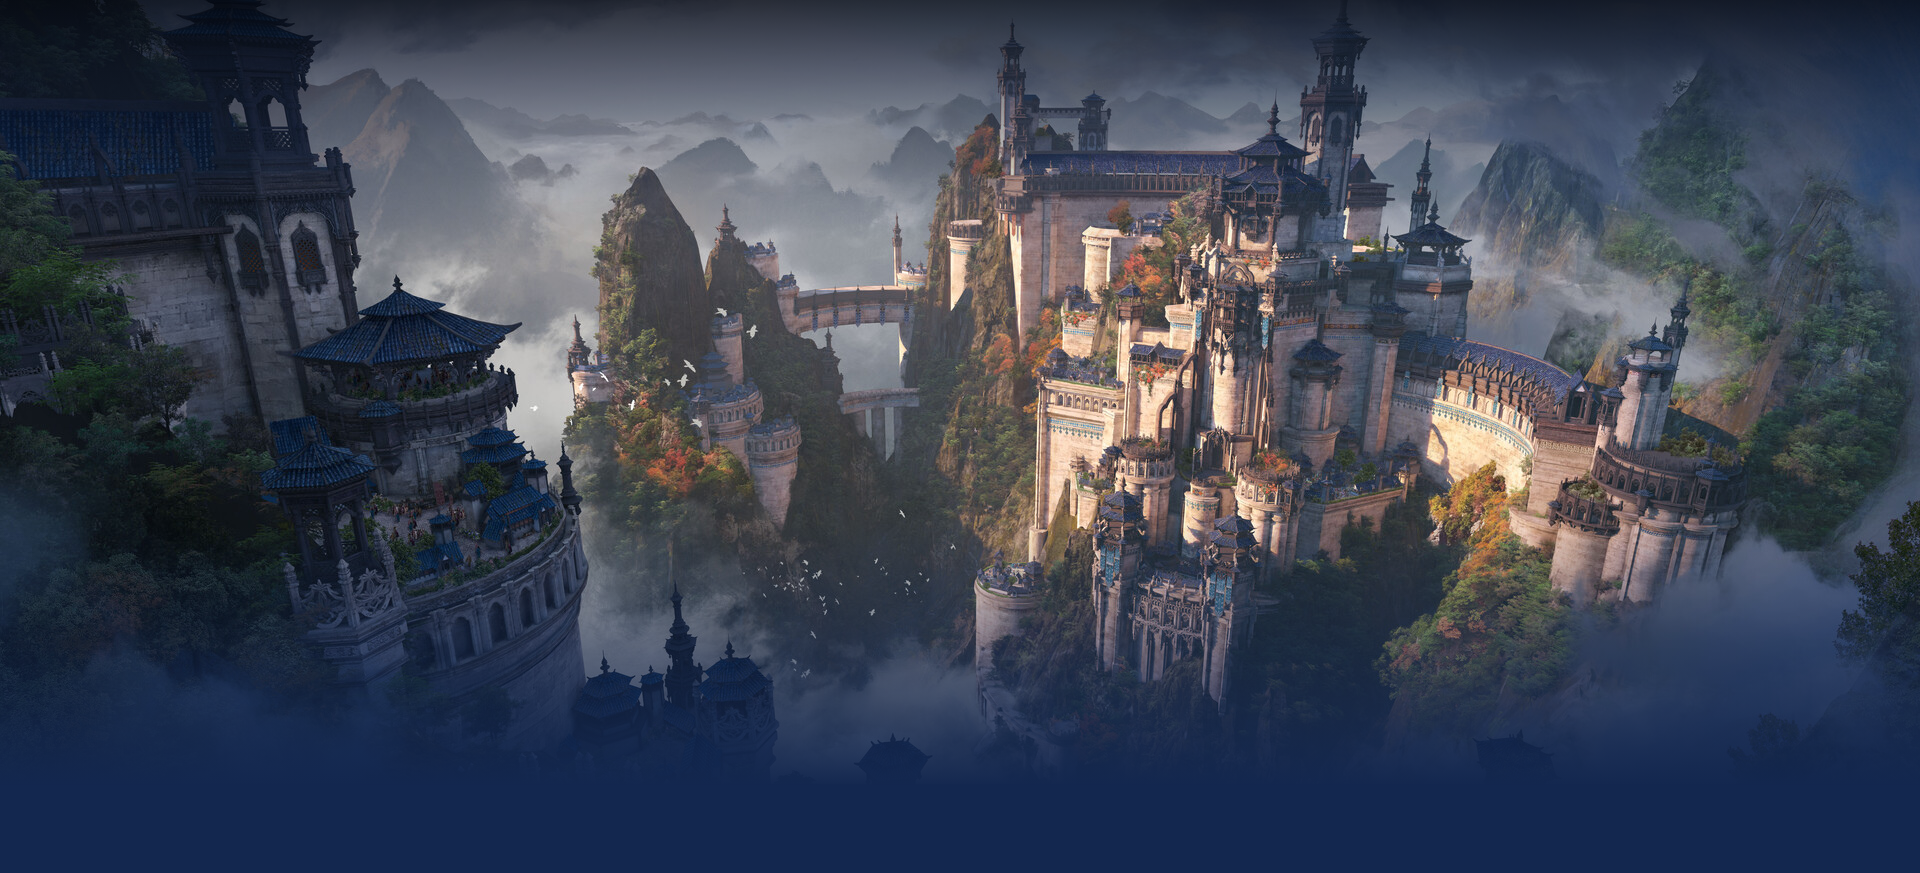
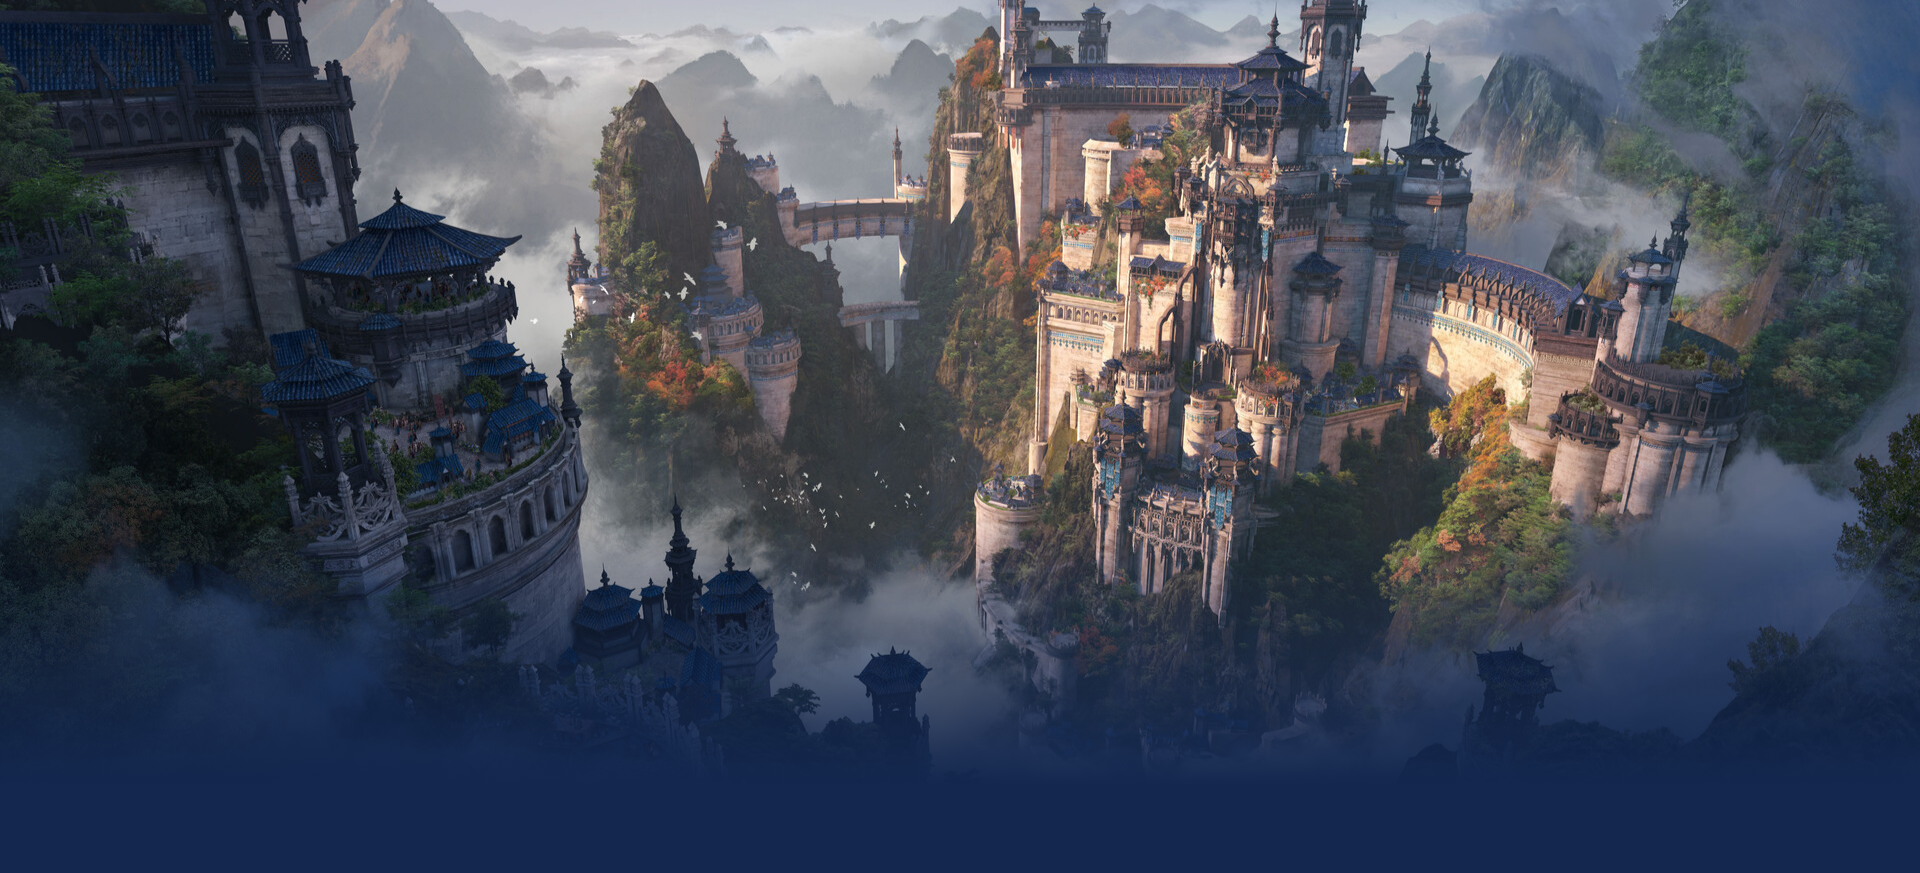
commit 26/11

diff --git a/website-portifolio-react/src/App.css b/website-portifolio-react/src/App.css
@@ -11,19 +11,19 @@
 html, body {
   margin: 0;
   padding: 0;
-  background-image: url(./images/backgroundimage.png);
-  background-size: cover;
-  background-attachment: fixed;
 }
 
 /* CSS referente a Homebar */
 .homebar-main {
   list-style-type: none;
   font-family: 'heading-now-74-regular';
-  padding: 20px 25px;
+  padding: 30px 25px;
+  padding-bottom: 50px;
   display: flex;
   justify-content: space-between;
   align-items: center;
+  background-image: linear-gradient(180deg, rgba(0, 0, 0, 0.4) 80%, rgba(0, 0, 0, 0.0) 100%);
+  margin: 0;
 }
 
 .homebar-item {
@@ -116,4 +116,16 @@ html, body {
   transform: translateY(2px);
   box-shadow: 0px 0px 0px 2px white;
   transition: transform 0.1s, box-shadow 0.1s;
+}
+/* Background Image */
+.background-image {
+  position: absolute;
+  top: 0;
+  left: 0;
+  width: 100%;
+  height: 100%;
+  z-index: -1;
+  background-image: url(./images/backgroundimage.png);
+  background-size: cover;
+
 }

diff --git a/website-portifolio-react/src/App.jsx b/website-portifolio-react/src/App.jsx
@@ -1,10 +1,15 @@
 import './App.css';
+import BackgroundImageComponent from './components/BackgroundImageComponent';
 import HomebarComponent from './components/HomebarComponent';
 
 function App() {
   return (
     <div className="App">
       <HomebarComponent />
+      <div className='background-image'>
+      </div>
+      
+
     </div>
   );
 }

diff --git a/website-portifolio-react/src/components/BackgroundImageComponent.jsx b/website-portifolio-react/src/components/BackgroundImageComponent.jsx
@@ -1,0 +1,12 @@
+import React from "react";
+import BackgroundImage from "../images/backgroundimage.png";
+
+const BackgroundImageComponent = () => {
+  return (
+    <div>
+        <img src={BackgroundImage} alt="" />
+    </div>
+  );
+}
+
+export default BackgroundImageComponent;
